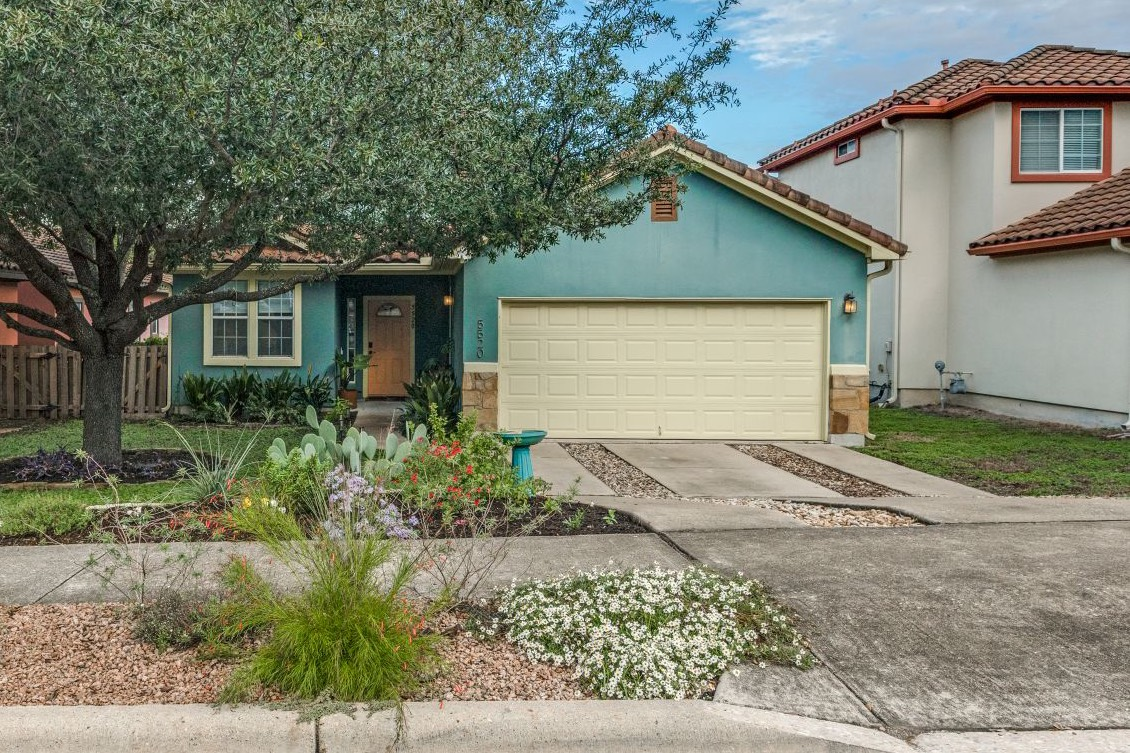
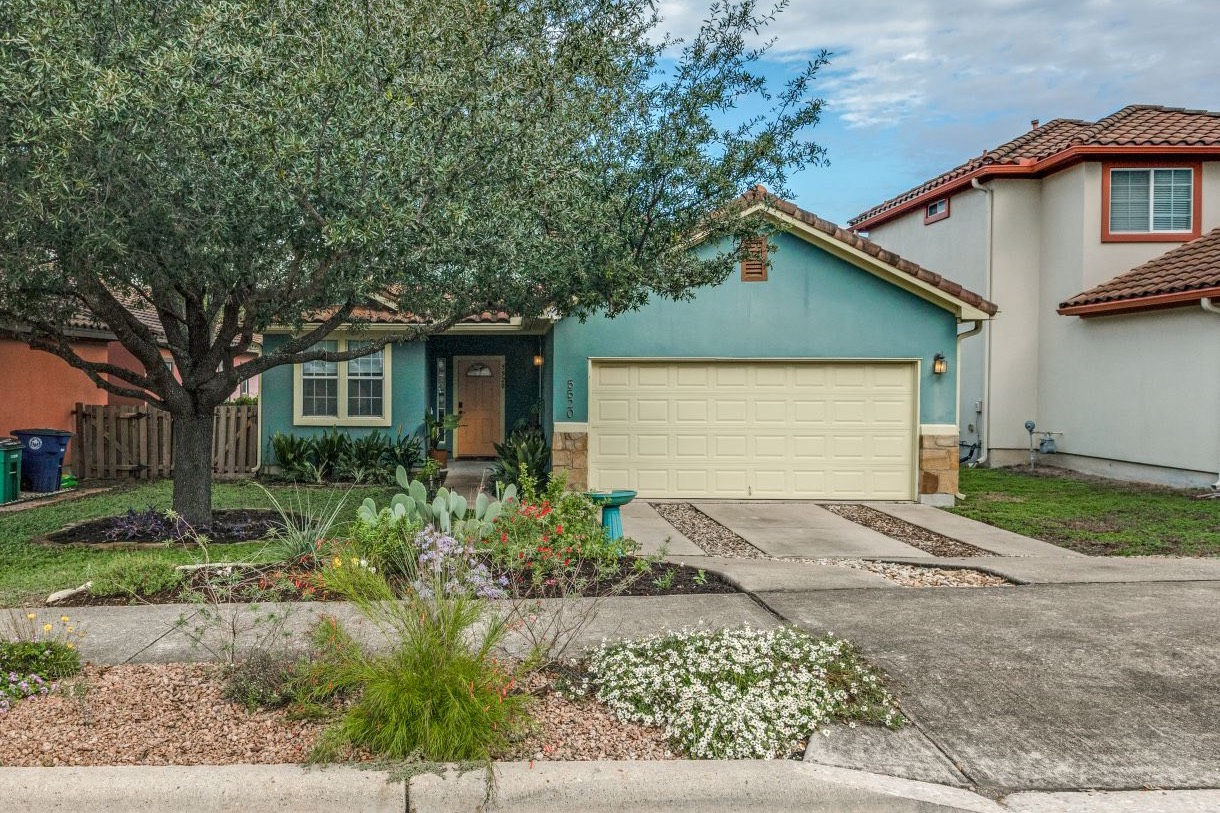
Center hero on the house, swap section colors, rewrite backyard story
Soften the coral section color, widen phone margins, and move the
hero plant beside the address.

diff --git a/index.html b/index.html
@@ -30,12 +30,12 @@ img { max-width: 100%; }
   --oak: #1D3A2B;
   --leaf: #C8DBBF;
   --stucco: #A3CBD2;
-  --salvia: #F0674F;
+  --salvia: #EC8068;
   --mist: #EEF3E6;
   --display: "Young Serif", Georgia, "Times New Roman", serif;
   --body: "Instrument Sans", "Helvetica Neue", Arial, sans-serif;
   --latin: "Newsreader", Georgia, serif;
-  --gut: clamp(16px, 5vw, 80px);
+  --gut: clamp(22px, 5.5vw, 80px);
   --rail: 0px;
   --bar: 60px;
   --now: var(--paper);
@@ -127,12 +127,12 @@ main { padding-right: var(--rail); overflow-x: clip; }
 /* The address scales with the space it has, so it always sits on one line. */
 .hero-type { container-type: inline-size; }
 .hero-type h1 { white-space: nowrap; font-size: 9vw; font-size: min(11cqi, 12.5rem); }
-.status-row { display: flex; flex-wrap: wrap; align-items: center; gap: 10px 16px; }
+.status-row { display: flex; align-items: flex-end; justify-content: space-between; gap: 16px; }
+.status-meta { display: flex; flex-wrap: wrap; align-items: center; gap: 10px 16px; min-width: 0; }
 .badge { display: inline-block; padding: 7px 16px 6px; border-radius: 999px; background: var(--forsythia); color: var(--ink); font-size: .85rem; font-weight: 600; letter-spacing: .06em; text-transform: uppercase; }
 .stage { position: relative; }
 .stage .ph { clip-path: inset(0 calc(var(--w, 1) * 7vw) 0 calc(var(--w, 1) * 7vw)); }
-.hero-salvia { right: 3%; top: -30%; width: clamp(130px, 23vw, 370px); }
-@media (max-width: 640px) { .hero-salvia { top: -9%; right: 7%; width: 112px; } }
+.hero-salvia { flex: 0 0 auto; width: clamp(84px, 14vw, 230px); margin-bottom: -.35em; pointer-events: none; }
 .say { font-family: var(--display); font-size: clamp(1.7rem, 3.9vw, 4rem); line-height: 1.16; max-width: 21em; text-wrap: pretty; }
 .say em { font-style: normal; background: linear-gradient(transparent 62%, var(--forsythia) 62%); }
 
@@ -289,13 +289,15 @@ html.lb-open { overflow: hidden; }
   <section id="top" data-tone="paper">
     <div class="wrap hero-type">
       <div class="status-row">
-        <span class="badge" id="status">Coming soon</span>
-        <p class="label">Austin, Texas 78724</p>
+        <div class="status-meta">
+          <span class="badge" id="status">Coming soon</span>
+          <p class="label">Austin, Texas 78724</p>
+        </div>
+        <div class="hero-salvia" data-plant="autumn" data-depth=".06"></div>
       </div>
       <h1>5520 Toscana Ave</h1>
     </div>
     <div class="stage" id="widen">
-      <div class="float hero-salvia" data-plant="autumn" data-depth=".14"></div>
       <figure class="ph r32 still">
         <img class="shot" src="assets/front-hero.jpg" alt="Blue stucco house with a terracotta tile roof behind a live oak, with native beds along the curb" fetchpriority="high">
       </figure>
@@ -317,7 +319,7 @@ html.lb-open { overflow: hidden; }
     </div>
   </section>
 
-  <section id="arrive" class="band" data-tone="forsythia" data-chapter>
+  <section id="arrive" class="band" data-tone="stucco" data-chapter>
     <div class="wrap head">
       <p class="label">Arrive</p>
       <h2>From the curb.</h2>
@@ -342,7 +344,7 @@ html.lb-open { overflow: hidden; }
     </div>
   </section>
 
-  <section id="work" class="band" data-tone="stucco" data-chapter>
+  <section id="work" class="band" data-tone="forsythia" data-chapter>
     <div class="wrap head">
       <p class="label">Work</p>
       <h2>An office with a door.</h2>
@@ -417,10 +419,10 @@ html.lb-open { overflow: hidden; }
         <figure class="ph"><img class="shot" src="assets/yard-seating.jpg" alt="Mulched seating corner with a raised metal garden bed and potted herbs" loading="lazy"></figure>
         <figure class="ph"><img class="shot" src="assets/yard-house.jpg" alt="Back of the house in blue stucco, seen from beneath the live oak" loading="lazy"></figure>
         <div class="pin-copy">
-          <div class="on"><p class="label">Out back</p><h2>The oak was here first.</h2><p>The fenced yard sits under a mature live oak, with a hackberry in the middle and redbuds along the back.</p></div>
+          <div class="on"><p class="label">Out back</p><h2>A yard with room for everything.</h2><p>Sun, shade, paths and planting beds give the fenced yard distinct spaces to relax, entertain and grow, all under a mature live oak, a hackberry and redbuds.</p></div>
           <div><p class="label">Midday</p><h2>Shade when you want it.</h2><p>A limestone footpath winds past a stone fountain and native beds along the fence, all under the shade of the oak.</p></div>
-          <div><p class="label">Gather</p><h2>A corner for sitting.</h2><p>The mulched back corner fits a small seating area, right beside raised metal beds watered by a soak hose.</p></div>
-          <div><p class="label">Growing</p><h2>Room to grow.</h2><p>Turk's cap lines the back of the house, rosemary grows by the seating corner, and the Ischia fig ripens around August.</p></div>
+          <div><p class="label">Gather</p><h2>Room to grow.</h2><p>The back corner pairs a seating area for friends with raised metal veggie beds on a soak hose, so you can host and harvest in the same spot.</p></div>
+          <div><p class="label">Upkeep</p><h2>Easy to keep up.</h2><p>Drought-tolerant native groundcover stands in for thirsty lawn, and the trees were trimmed in September 2026. The oak also shades the back of the house through the hottest part of the day.</p></div>
         </div>
       </div>
     </div>

diff --git a/5520-toscana-shell.html b/5520-toscana-shell.html
@@ -15,12 +15,12 @@
   --oak: #1D3A2B;
   --leaf: #C8DBBF;
   --stucco: #A3CBD2;
-  --salvia: #F0674F;
+  --salvia: #EC8068;
   --mist: #EEF3E6;
   --display: "Young Serif", Georgia, "Times New Roman", serif;
   --body: "Instrument Sans", "Helvetica Neue", Arial, sans-serif;
   --latin: "Newsreader", Georgia, serif;
-  --gut: clamp(16px, 5vw, 80px);
+  --gut: clamp(22px, 5.5vw, 80px);
   --rail: 0px;
   --bar: 60px;
   --now: var(--paper);
@@ -112,12 +112,12 @@ main { padding-right: var(--rail); overflow-x: clip; }
 /* The address scales with the space it has, so it always sits on one line. */
 .hero-type { container-type: inline-size; }
 .hero-type h1 { white-space: nowrap; font-size: 9vw; font-size: min(11cqi, 12.5rem); }
-.status-row { display: flex; flex-wrap: wrap; align-items: center; gap: 10px 16px; }
+.status-row { display: flex; align-items: flex-end; justify-content: space-between; gap: 16px; }
+.status-meta { display: flex; flex-wrap: wrap; align-items: center; gap: 10px 16px; min-width: 0; }
 .badge { display: inline-block; padding: 7px 16px 6px; border-radius: 999px; background: var(--forsythia); color: var(--ink); font-size: .85rem; font-weight: 600; letter-spacing: .06em; text-transform: uppercase; }
 .stage { position: relative; }
 .stage .ph { clip-path: inset(0 calc(var(--w, 1) * 7vw) 0 calc(var(--w, 1) * 7vw)); }
-.hero-salvia { right: 3%; top: -30%; width: clamp(130px, 23vw, 370px); }
-@media (max-width: 640px) { .hero-salvia { top: -9%; right: 7%; width: 112px; } }
+.hero-salvia { flex: 0 0 auto; width: clamp(84px, 14vw, 230px); margin-bottom: -.35em; pointer-events: none; }
 .say { font-family: var(--display); font-size: clamp(1.7rem, 3.9vw, 4rem); line-height: 1.16; max-width: 21em; text-wrap: pretty; }
 .say em { font-style: normal; background: linear-gradient(transparent 62%, var(--forsythia) 62%); }
 
@@ -274,13 +274,15 @@ html.lb-open { overflow: hidden; }
   <section id="top" data-tone="paper">
     <div class="wrap hero-type">
       <div class="status-row">
-        <span class="badge" id="status">Coming soon</span>
-        <p class="label">Austin, Texas 78724</p>
+        <div class="status-meta">
+          <span class="badge" id="status">Coming soon</span>
+          <p class="label">Austin, Texas 78724</p>
+        </div>
+        <div class="hero-salvia" data-plant="autumn" data-depth=".06"></div>
       </div>
       <h1>5520 Toscana Ave</h1>
     </div>
     <div class="stage" id="widen">
-      <div class="float hero-salvia" data-plant="autumn" data-depth=".14"></div>
       <figure class="ph r32 still">
         <img class="shot" src="assets/front-hero.jpg" alt="Blue stucco house with a terracotta tile roof behind a live oak, with native beds along the curb" fetchpriority="high">
       </figure>
@@ -302,7 +304,7 @@ html.lb-open { overflow: hidden; }
     </div>
   </section>
 
-  <section id="arrive" class="band" data-tone="forsythia" data-chapter>
+  <section id="arrive" class="band" data-tone="stucco" data-chapter>
     <div class="wrap head">
       <p class="label">Arrive</p>
       <h2>From the curb.</h2>
@@ -327,7 +329,7 @@ html.lb-open { overflow: hidden; }
     </div>
   </section>
 
-  <section id="work" class="band" data-tone="stucco" data-chapter>
+  <section id="work" class="band" data-tone="forsythia" data-chapter>
     <div class="wrap head">
       <p class="label">Work</p>
       <h2>An office with a door.</h2>
@@ -402,10 +404,10 @@ html.lb-open { overflow: hidden; }
         <figure class="ph"><img class="shot" src="assets/yard-seating.jpg" alt="Mulched seating corner with a raised metal garden bed and potted herbs" loading="lazy"></figure>
         <figure class="ph"><img class="shot" src="assets/yard-house.jpg" alt="Back of the house in blue stucco, seen from beneath the live oak" loading="lazy"></figure>
         <div class="pin-copy">
-          <div class="on"><p class="label">Out back</p><h2>The oak was here first.</h2><p>The fenced yard sits under a mature live oak, with a hackberry in the middle and redbuds along the back.</p></div>
+          <div class="on"><p class="label">Out back</p><h2>A yard with room for everything.</h2><p>Sun, shade, paths and planting beds give the fenced yard distinct spaces to relax, entertain and grow, all under a mature live oak, a hackberry and redbuds.</p></div>
           <div><p class="label">Midday</p><h2>Shade when you want it.</h2><p>A limestone footpath winds past a stone fountain and native beds along the fence, all under the shade of the oak.</p></div>
-          <div><p class="label">Gather</p><h2>A corner for sitting.</h2><p>The mulched back corner fits a small seating area, right beside raised metal beds watered by a soak hose.</p></div>
-          <div><p class="label">Growing</p><h2>Room to grow.</h2><p>Turk's cap lines the back of the house, rosemary grows by the seating corner, and the Ischia fig ripens around August.</p></div>
+          <div><p class="label">Gather</p><h2>Room to grow.</h2><p>The back corner pairs a seating area for friends with raised metal veggie beds on a soak hose, so you can host and harvest in the same spot.</p></div>
+          <div><p class="label">Upkeep</p><h2>Easy to keep up.</h2><p>Drought-tolerant native groundcover stands in for thirsty lawn, and the trees were trimmed in September 2026. The oak also shades the back of the house through the hottest part of the day.</p></div>
         </div>
       </div>
     </div>
